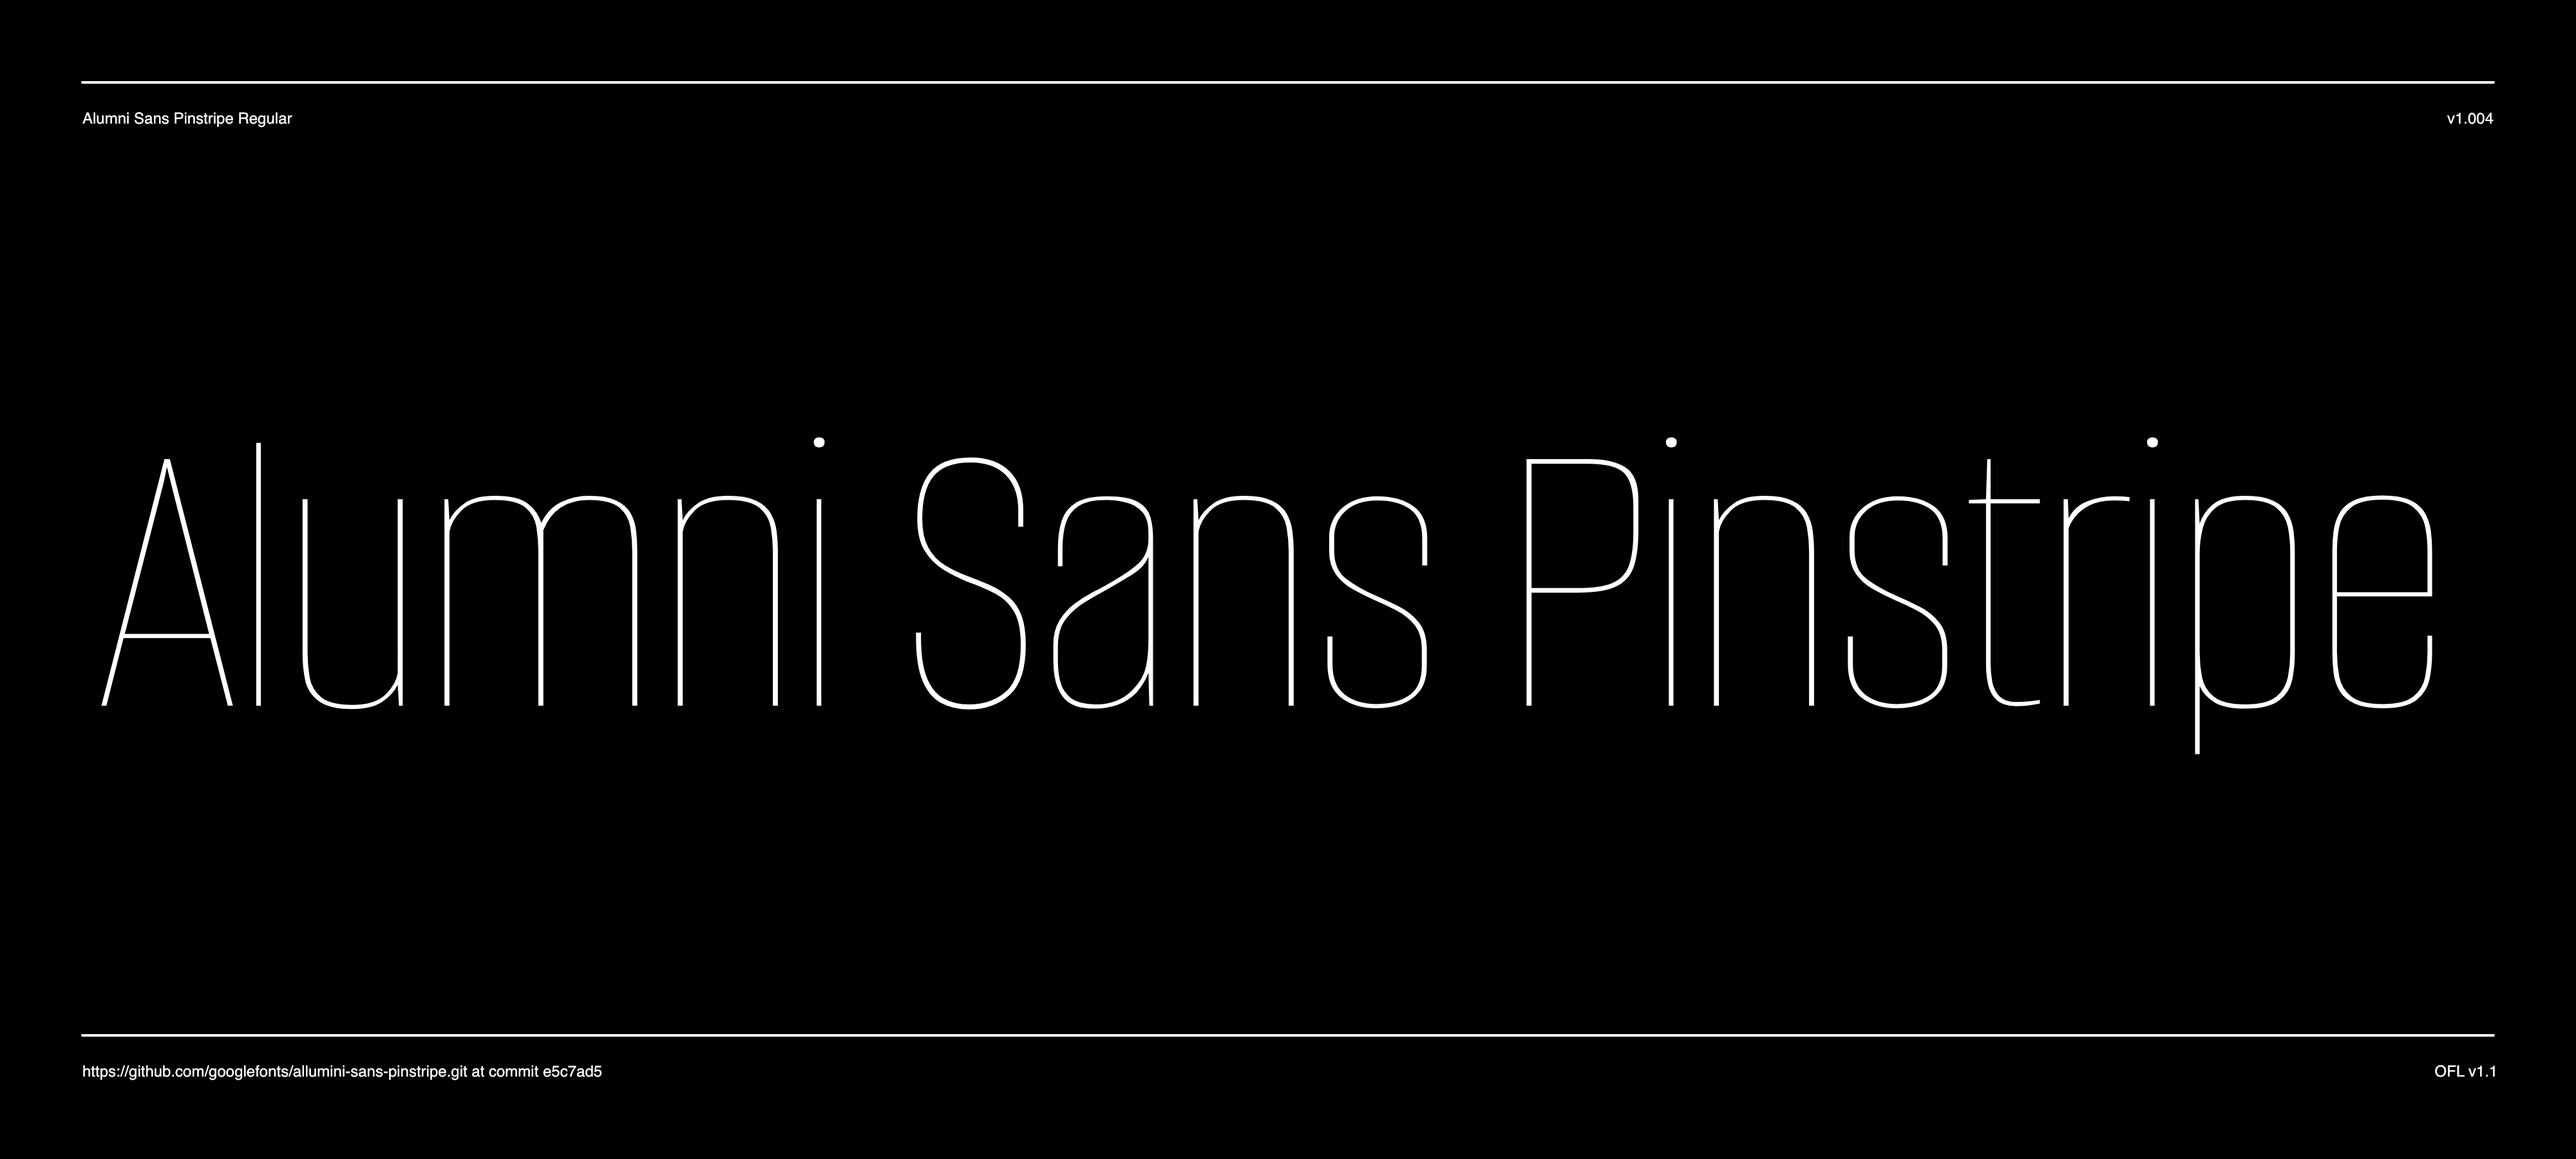
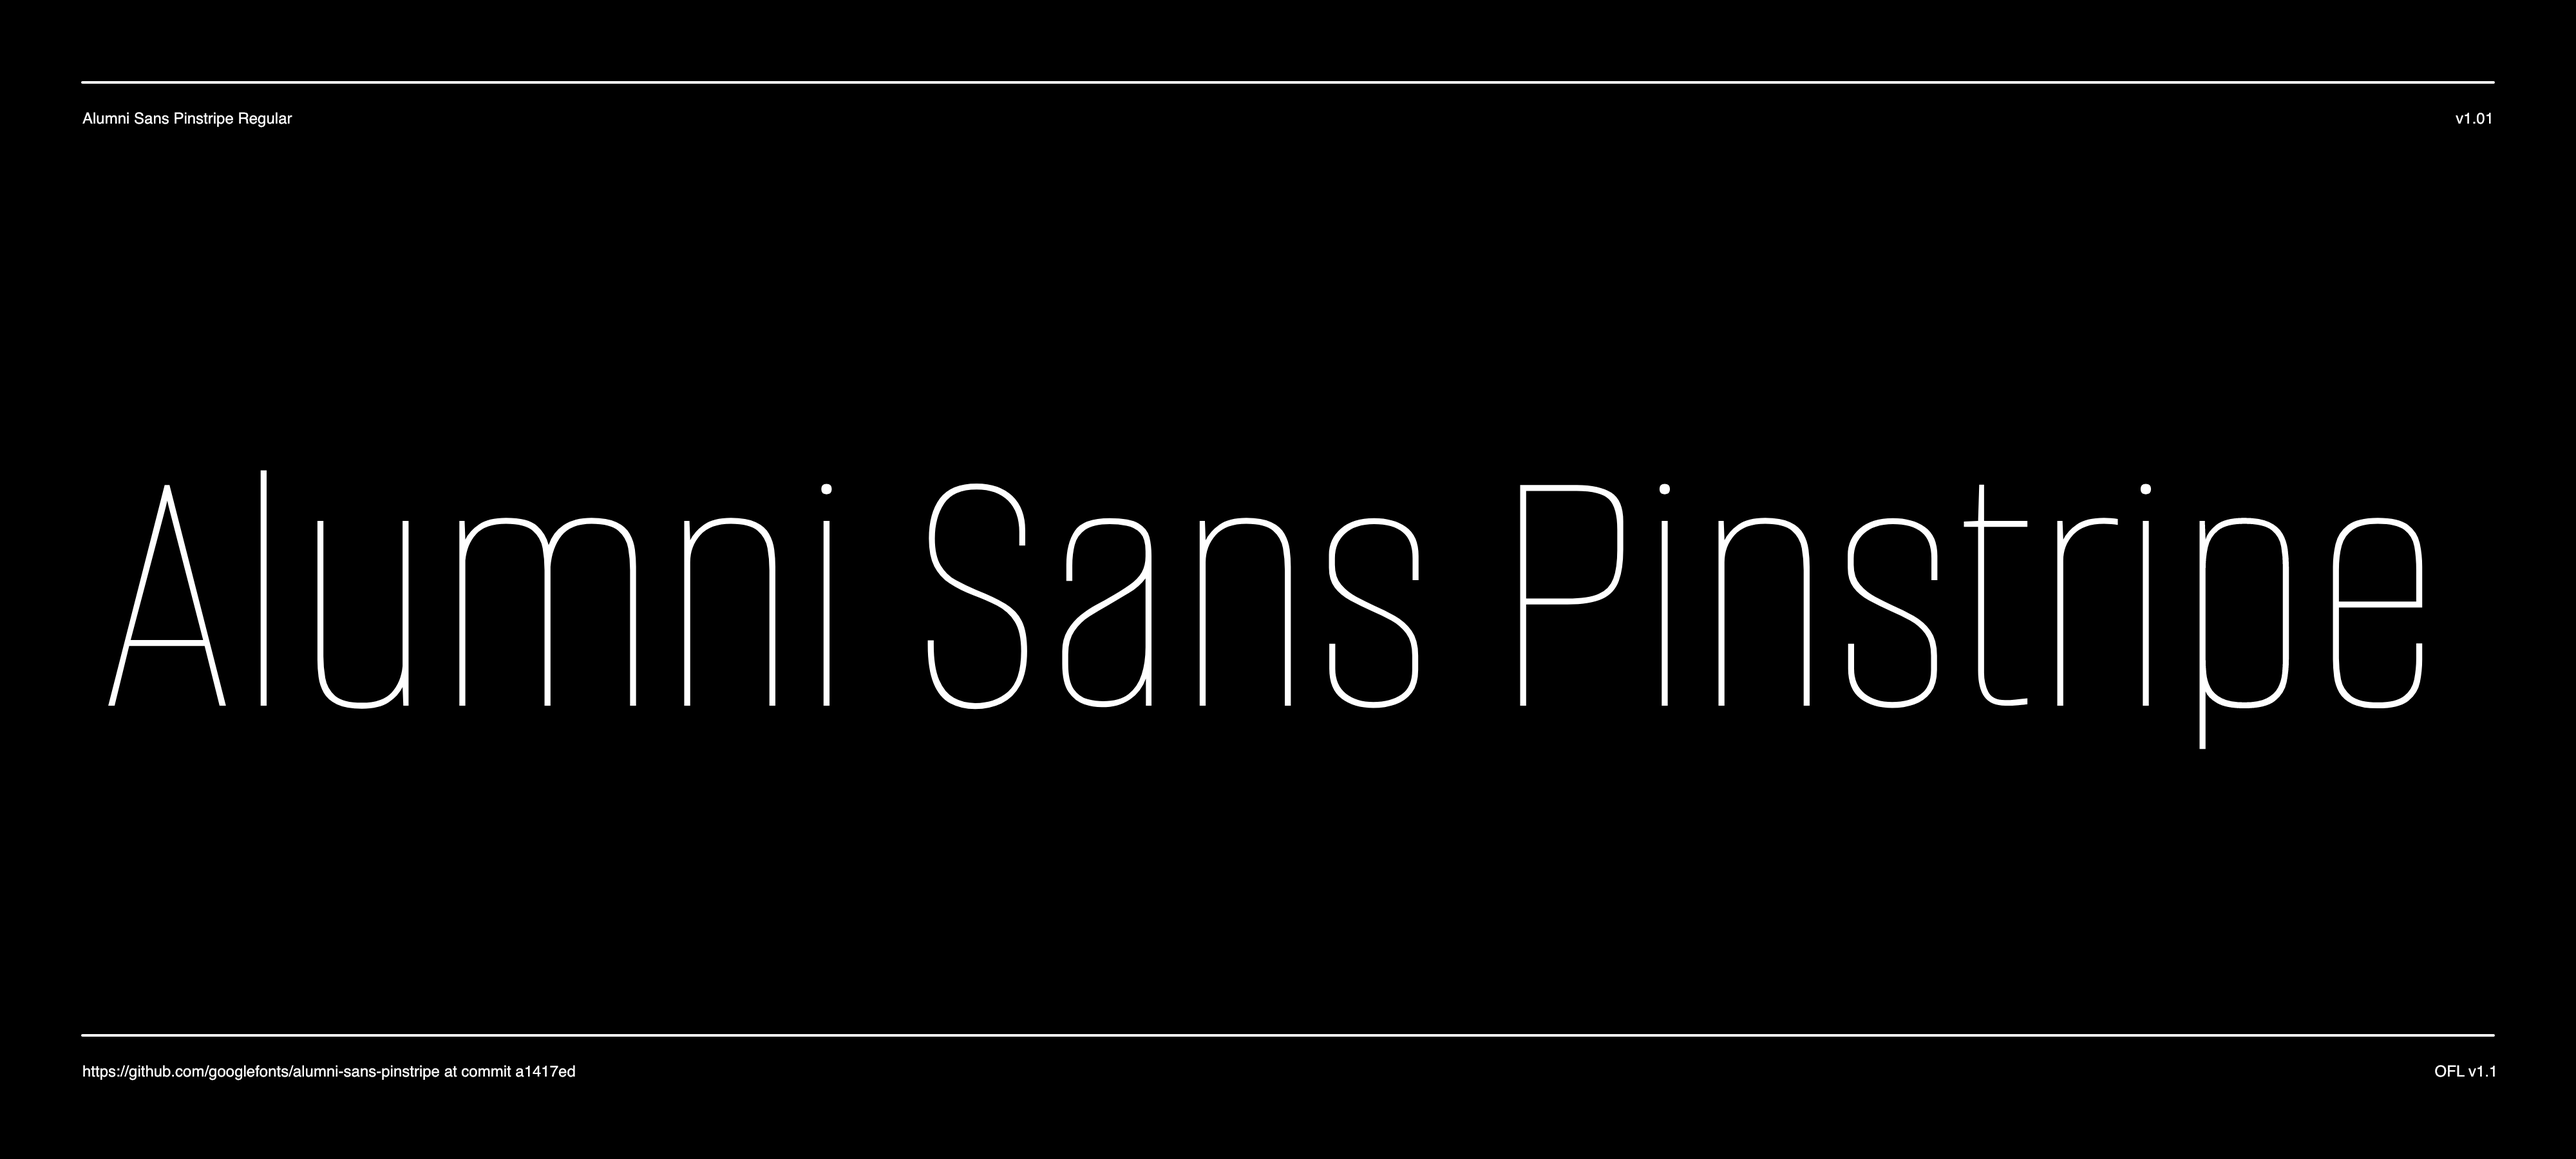
sample image updated

diff --git a/documentation/image1.py b/documentation/image1.py
@@ -21,7 +21,7 @@ FONT_LICENSE = "OFL v1.1"
 AUXILIARY_FONT = "Helvetica"
 AUXILIARY_FONT_SIZE = 24
 BIG_TEXT = "Alumni Sans Pinstripe"
-BIG_TEXT_FONT_SIZE = 648
+BIG_TEXT_FONT_SIZE = 580
 BIG_TEXT_SIDE_MARGIN = MARGIN * 1.2
 BIG_TEXT_BOTTOM_MARGIN = MARGIN * 5.5
 GRID_VIEW = False # Change this to "True" for a grid overlay
@@ -29,7 +29,7 @@ GRID_VIEW = False # Change this to "True" for a grid overlay
 # Handel the "--output" flag
 # For example: $ python3 documentation/image1.py --output documentation/image1.png
 parser = argparse.ArgumentParser()
-parser.add_argument("--output", metavar="PNG", help="where to write the PNG file")
+parser.add_argument("--output", "-o", metavar="PNG", help="where to write the PNG file")
 args = parser.parse_args()
 
 # Load the font with the parts of fonttools that are imported with the line:
